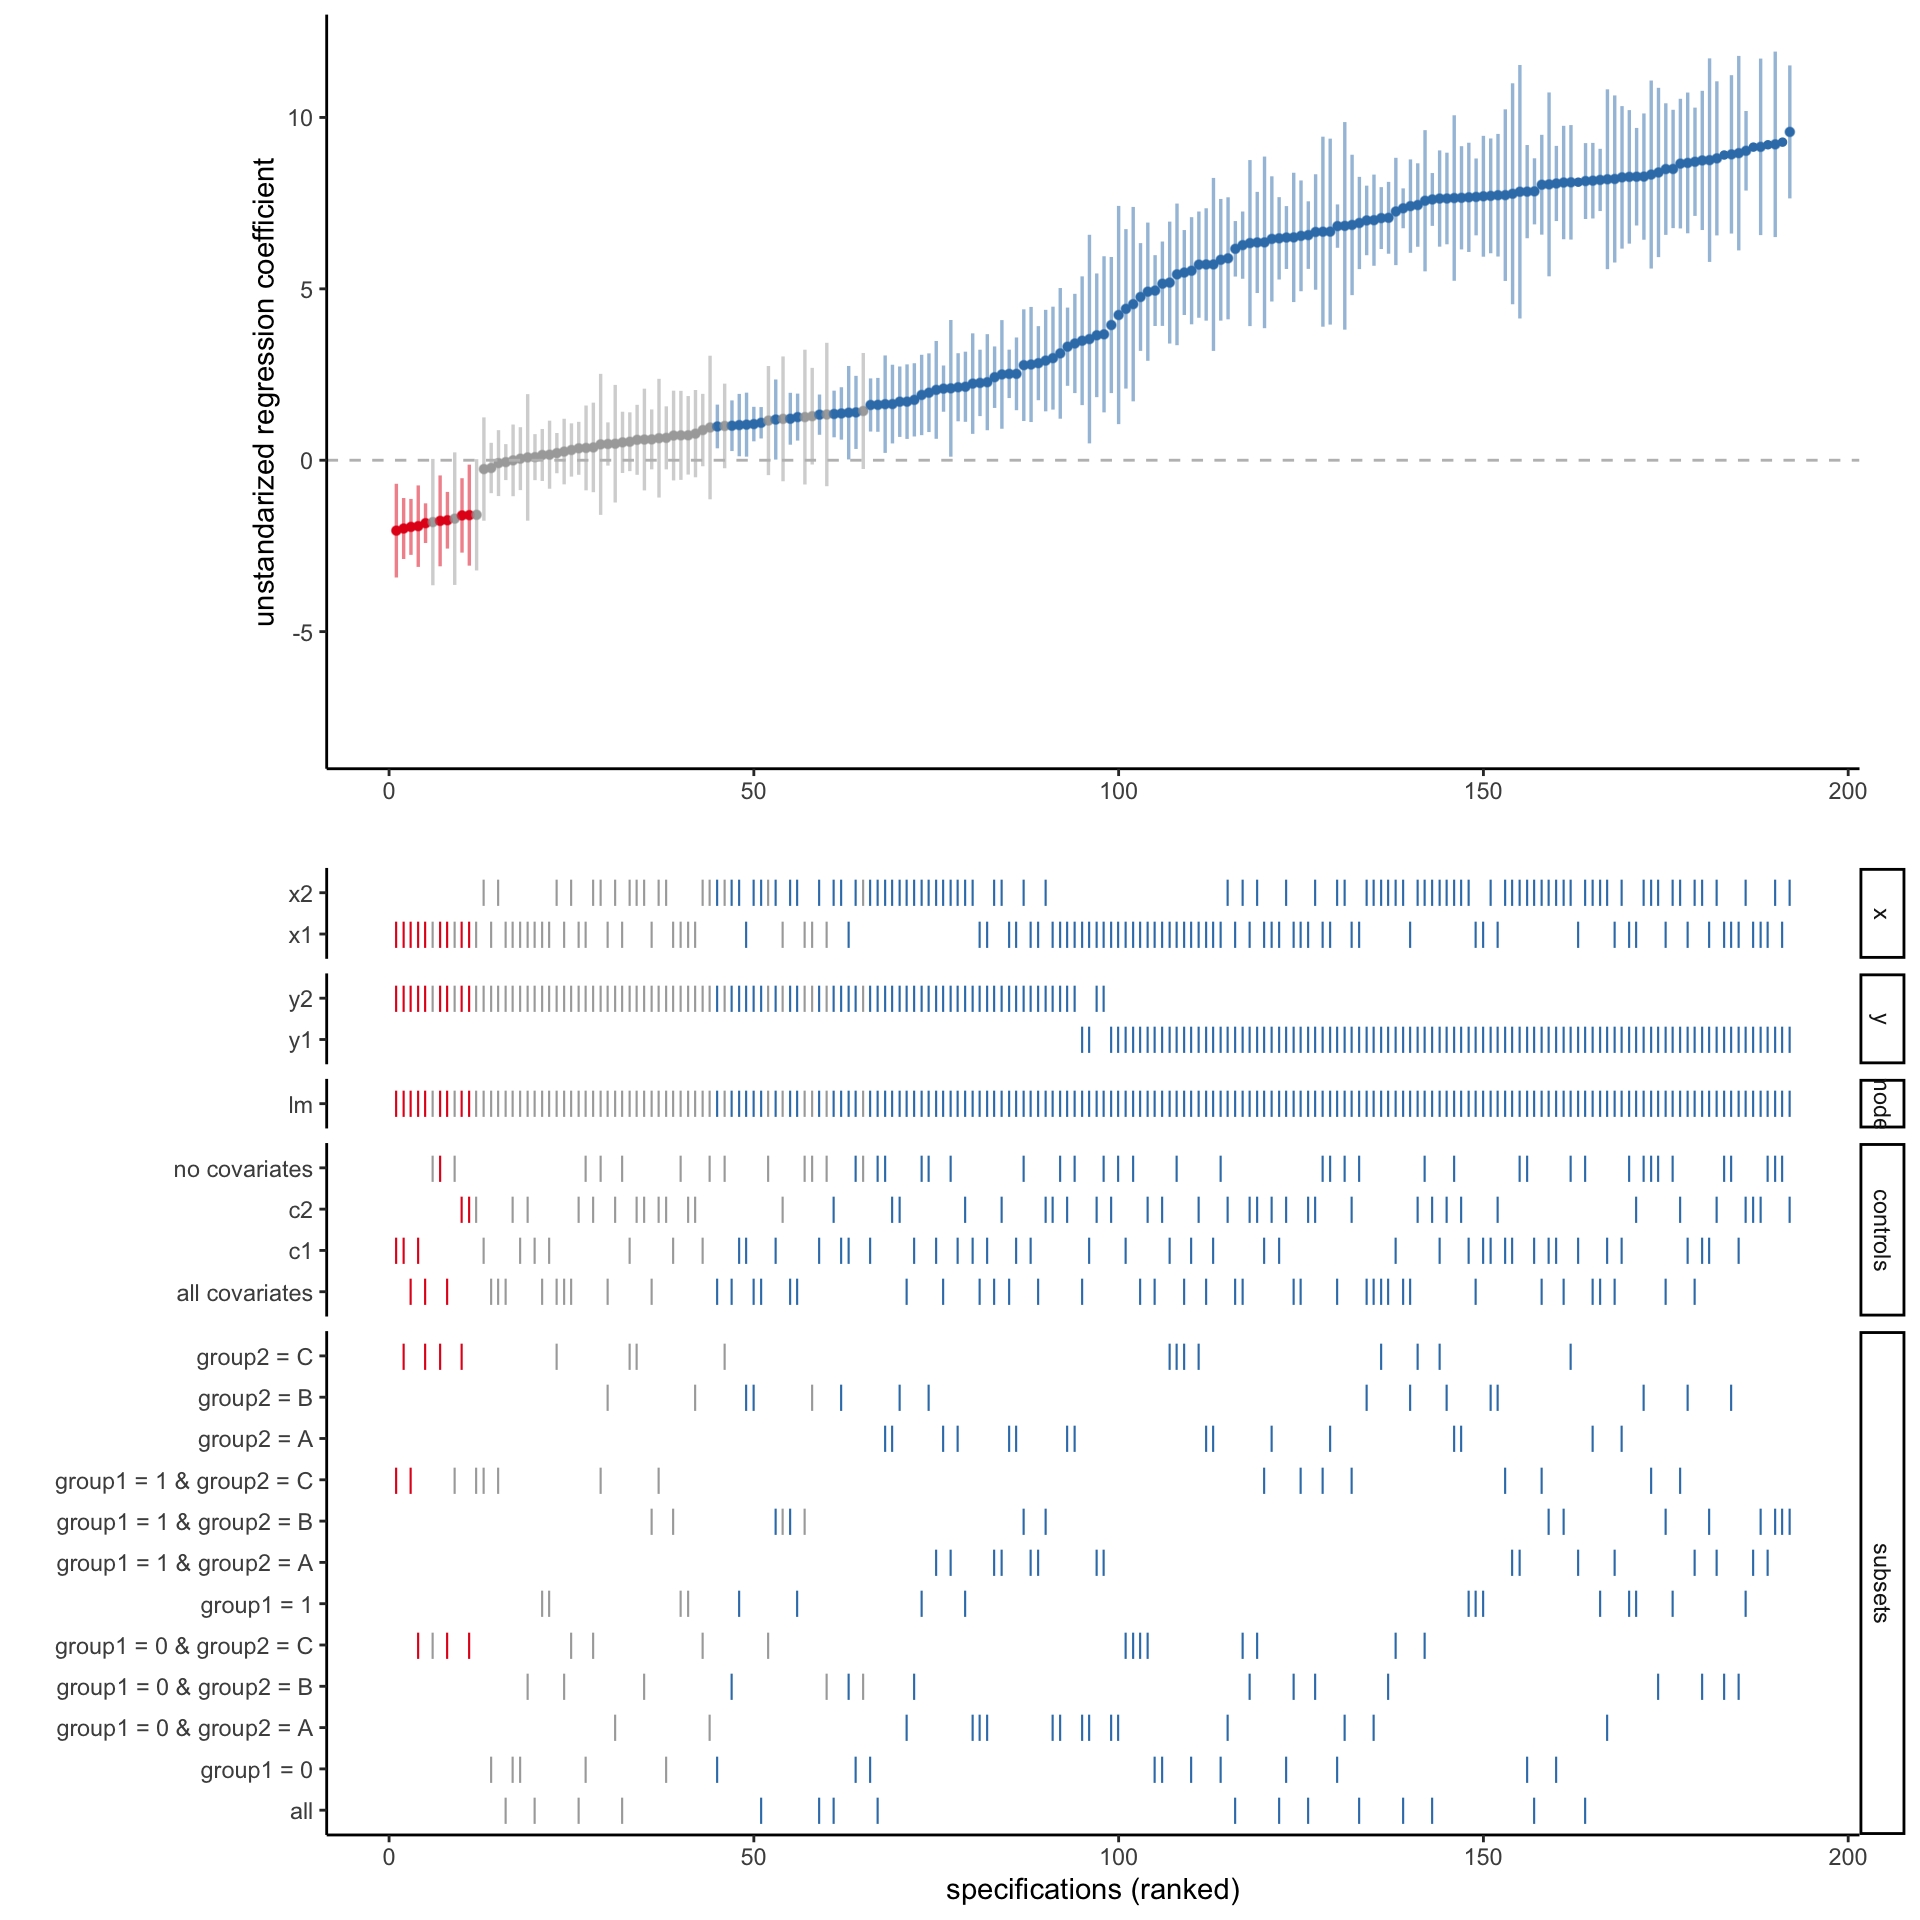
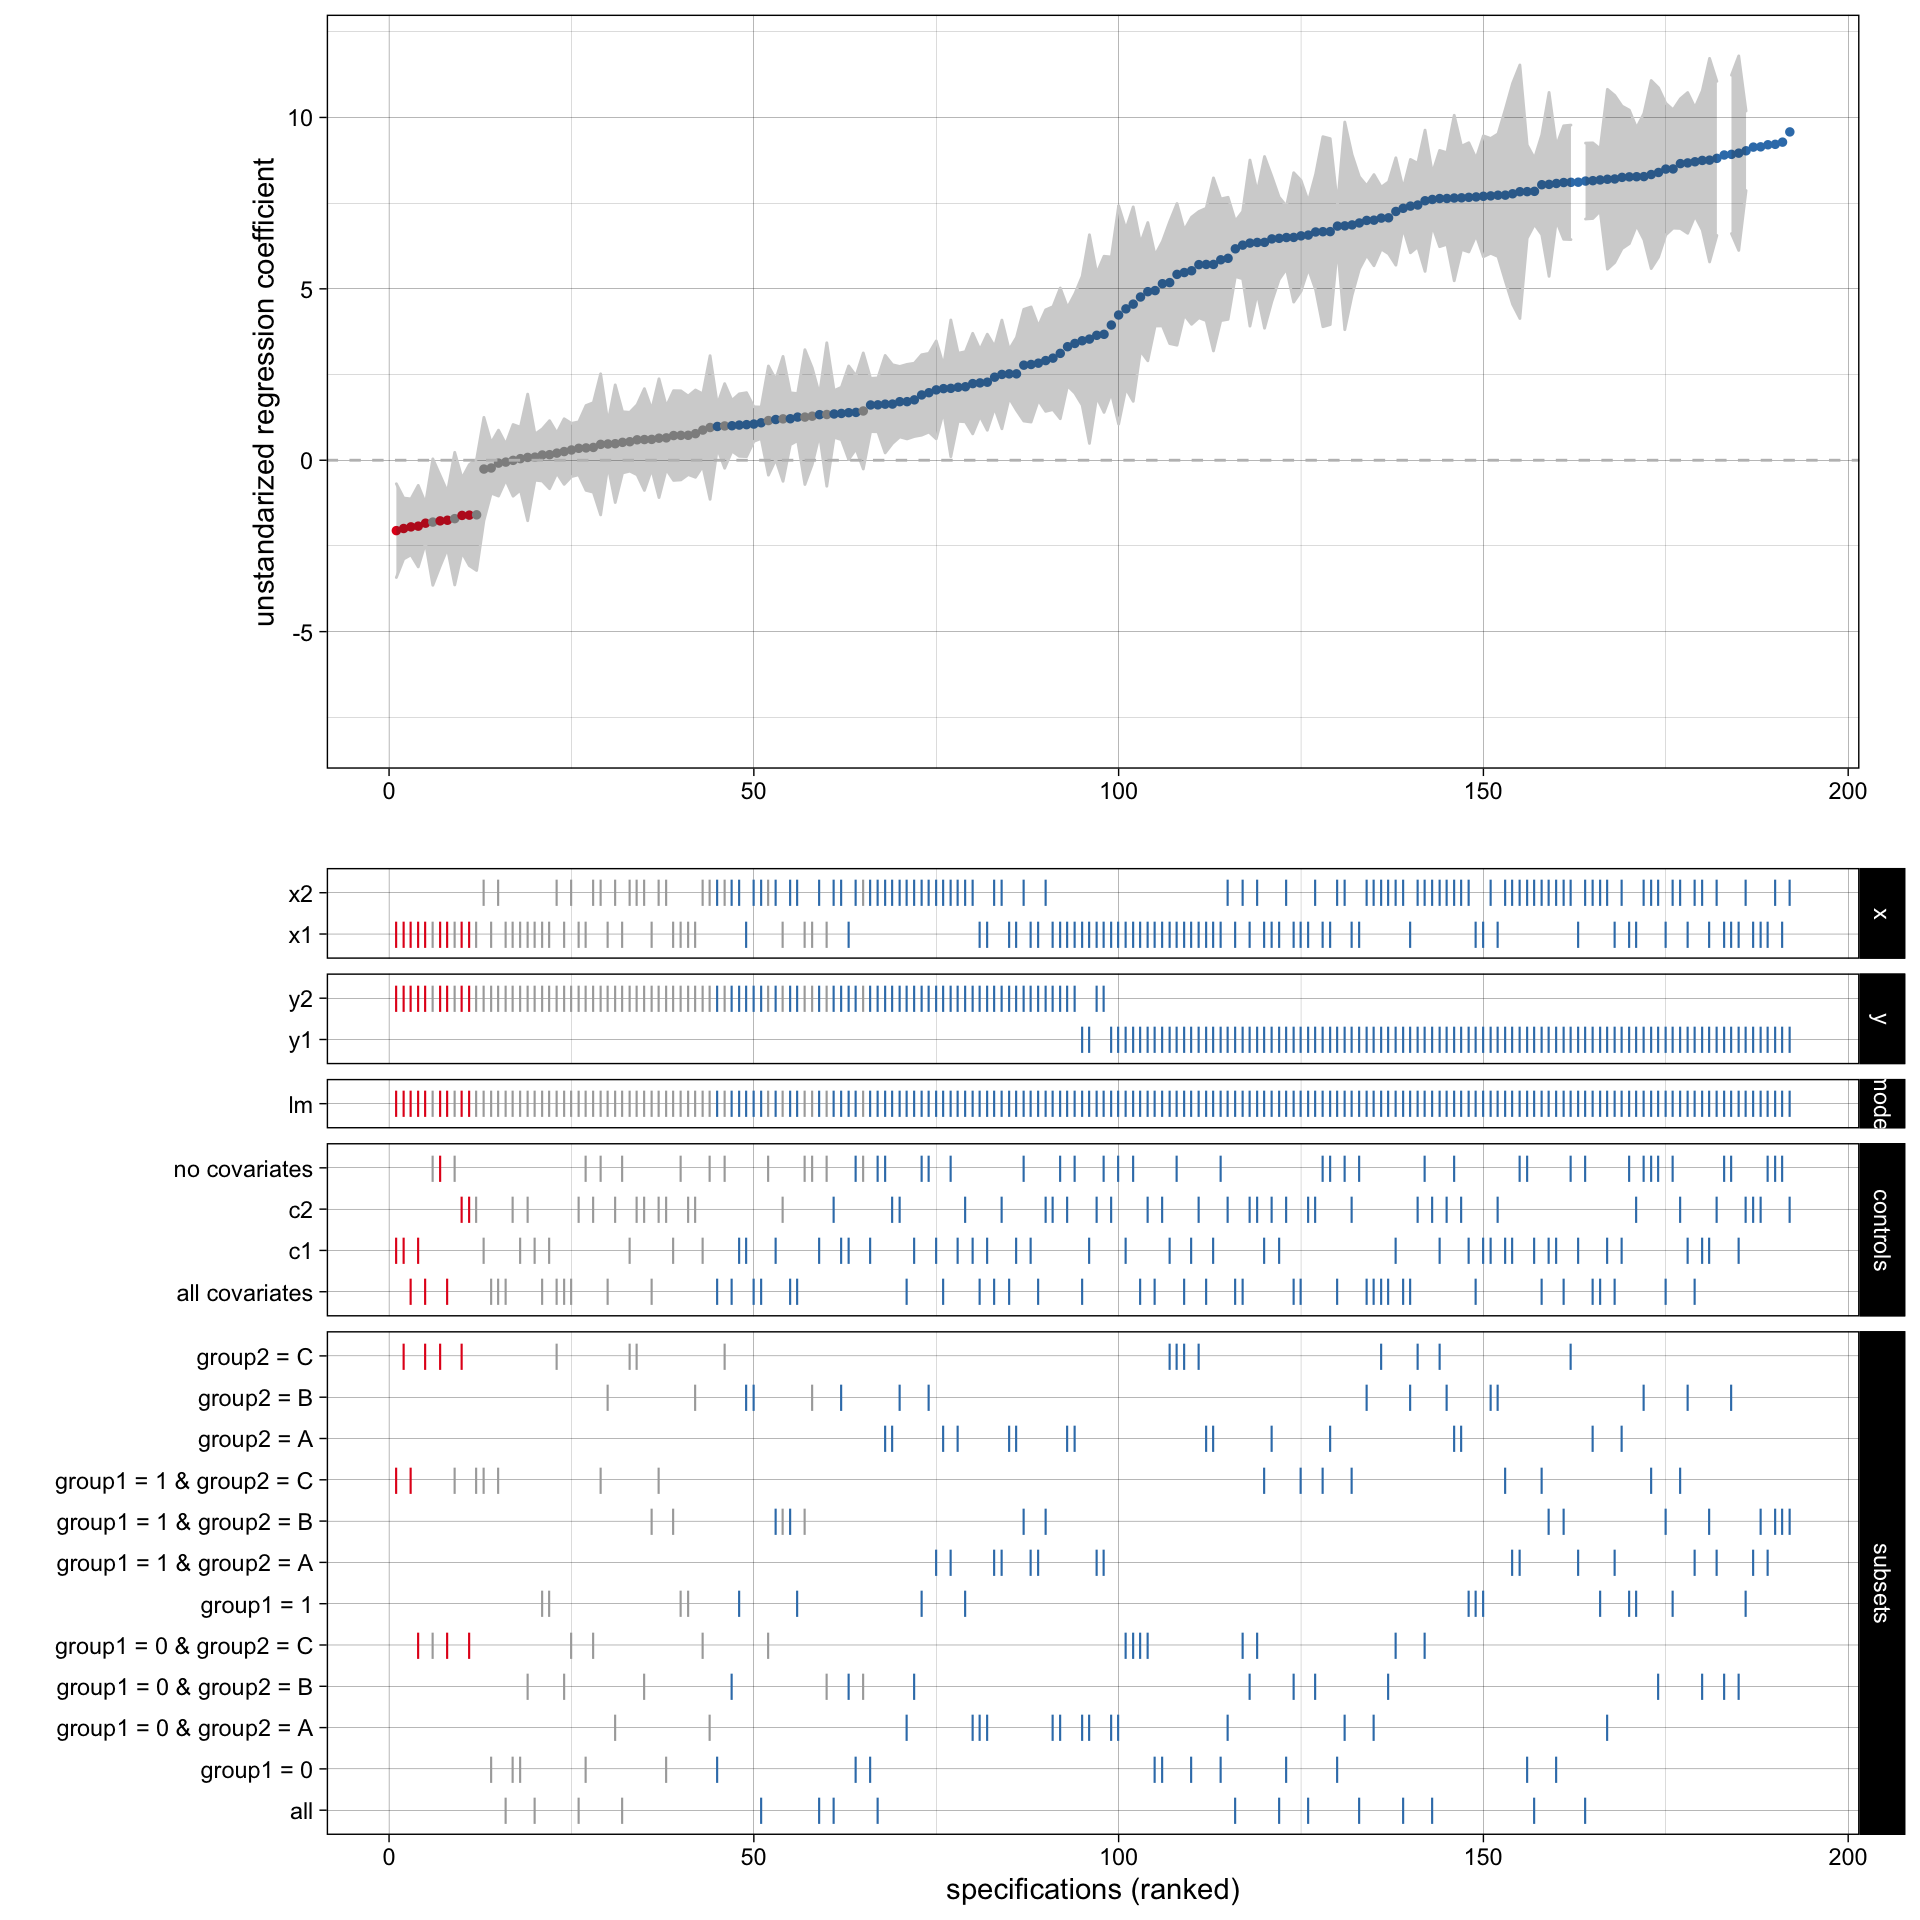
Updated custom-plot vignette.

diff --git a/docs/articles/custom-plot.html b/docs/articles/custom-plot.html
@@ -151,16 +151,16 @@
 <a href="#plot-curve-and-choices-seperately" class="anchor"></a>3.1. Plot curve and choices seperately</h3>
 <p>Alternatively, we can also plot the curve and the choice panel individually and bind them together afterwards.</p>
 <div class="sourceCode" id="cb7"><pre class="sourceCode r"><code class="sourceCode r"><span id="cb7-1"><a href="#cb7-1"></a><span class="co"># Plot specification curve (p1)</span></span>
-<span id="cb7-2"><a href="#cb7-2"></a>p1 &lt;-<span class="st"> </span><span class="kw"><a href="../reference/plot_curve.html">plot_curve</a></span>(results) <span class="op">+</span></span>
+<span id="cb7-2"><a href="#cb7-2"></a>p1 &lt;-<span class="st"> </span><span class="kw"><a href="../reference/plot_curve.html">plot_curve</a></span>(results, <span class="dt">ci =</span> <span class="ot">FALSE</span>, <span class="dt">ribbon =</span> <span class="ot">TRUE</span>) <span class="op">+</span></span>
 <span id="cb7-3"><a href="#cb7-3"></a><span class="st">  </span><span class="kw">geom_hline</span>(<span class="dt">yintercept =</span> <span class="dv">0</span>, <span class="dt">linetype =</span> <span class="st">"dashed"</span>, <span class="dt">color =</span> <span class="st">"grey"</span>) <span class="op">+</span></span>
 <span id="cb7-4"><a href="#cb7-4"></a><span class="st">  </span><span class="kw"><a href="https://rdrr.io/r/graphics/plot.window.html">ylim</a></span>(<span class="op">-</span><span class="dv">8</span>, <span class="dv">12</span>) <span class="op">+</span></span>
 <span id="cb7-5"><a href="#cb7-5"></a><span class="st">  </span><span class="kw">labs</span>(<span class="dt">x =</span> <span class="st">""</span>, <span class="dt">y =</span> <span class="st">"unstandarized regression coefficient"</span>) <span class="op">+</span></span>
-<span id="cb7-6"><a href="#cb7-6"></a><span class="st">  </span><span class="kw">theme_classic</span>()</span>
+<span id="cb7-6"><a href="#cb7-6"></a><span class="st">  </span><span class="kw">theme_linedraw</span>()</span>
 <span id="cb7-7"><a href="#cb7-7"></a></span>
 <span id="cb7-8"><a href="#cb7-8"></a><span class="co"># Plot choices (p2)</span></span>
 <span id="cb7-9"><a href="#cb7-9"></a>p2 &lt;-<span class="st"> </span><span class="kw"><a href="../reference/plot_choices.html">plot_choices</a></span>(results) <span class="op">+</span></span>
 <span id="cb7-10"><a href="#cb7-10"></a><span class="st">  </span><span class="kw">labs</span>(<span class="dt">x =</span> <span class="st">"specifications (ranked)"</span>) <span class="op">+</span></span>
-<span id="cb7-11"><a href="#cb7-11"></a><span class="st">  </span><span class="kw">theme_classic</span>() <span class="op">+</span></span>
+<span id="cb7-11"><a href="#cb7-11"></a><span class="st">  </span><span class="kw">theme_linedraw</span>() <span class="op">+</span></span>
 <span id="cb7-12"><a href="#cb7-12"></a><span class="st">  </span><span class="kw">theme</span>(<span class="dt">strip.text.x =</span> <span class="kw">element_blank</span>())</span>
 <span id="cb7-13"><a href="#cb7-13"></a></span>
 <span id="cb7-14"><a href="#cb7-14"></a><span class="co"># Combine plots</span></span>
@@ -175,7 +175,7 @@
 <a href="#include-sample-size-histogram" class="anchor"></a>3.2. Include sample size histogram</h3>
 <p>The additional function <code><a href="../reference/plot_samplesizes.html">plot_samplesizes()</a></code> provides and additional panel that can be added via the <code><a href="https://rdrr.io/pkg/cowplot/man/plot_grid.html">cowplot::plot_grid()</a></code></p>
 <div class="sourceCode" id="cb8"><pre class="sourceCode r"><code class="sourceCode r"><span id="cb8-1"><a href="#cb8-1"></a>p3 &lt;-<span class="st"> </span><span class="kw"><a href="../reference/plot_samplesizes.html">plot_samplesizes</a></span>(results) <span class="op">+</span></span>
-<span id="cb8-2"><a href="#cb8-2"></a><span class="st">  </span><span class="kw">theme_classic</span>()</span>
+<span id="cb8-2"><a href="#cb8-2"></a><span class="st">  </span><span class="kw">theme_linedraw</span>()</span>
 <span id="cb8-3"><a href="#cb8-3"></a></span>
 <span id="cb8-4"><a href="#cb8-4"></a><span class="co"># Combine via cowplot</span></span>
 <span id="cb8-5"><a href="#cb8-5"></a>cowplot<span class="op">::</span><span class="kw"><a href="https://rdrr.io/pkg/cowplot/man/plot_grid.html">plot_grid</a></span>(p1, p2, p3,</span>
